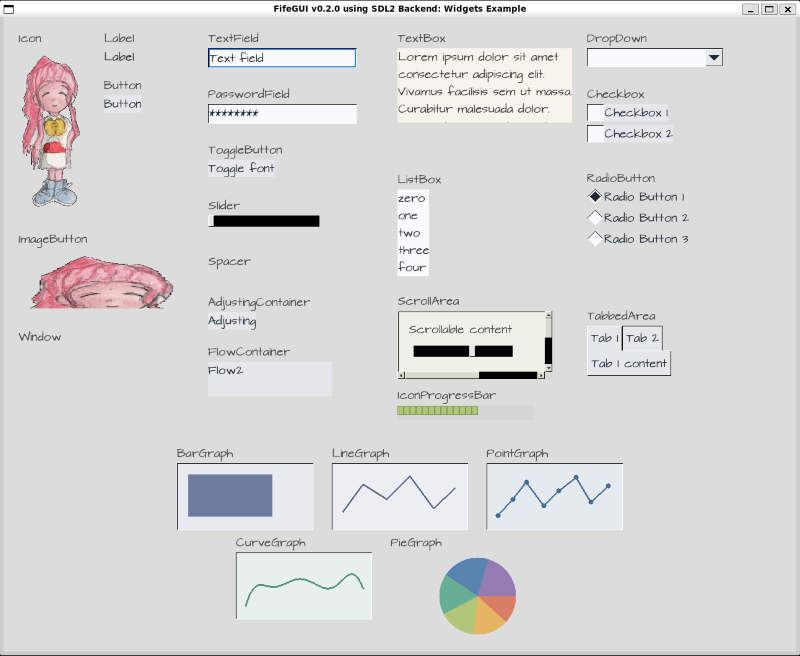
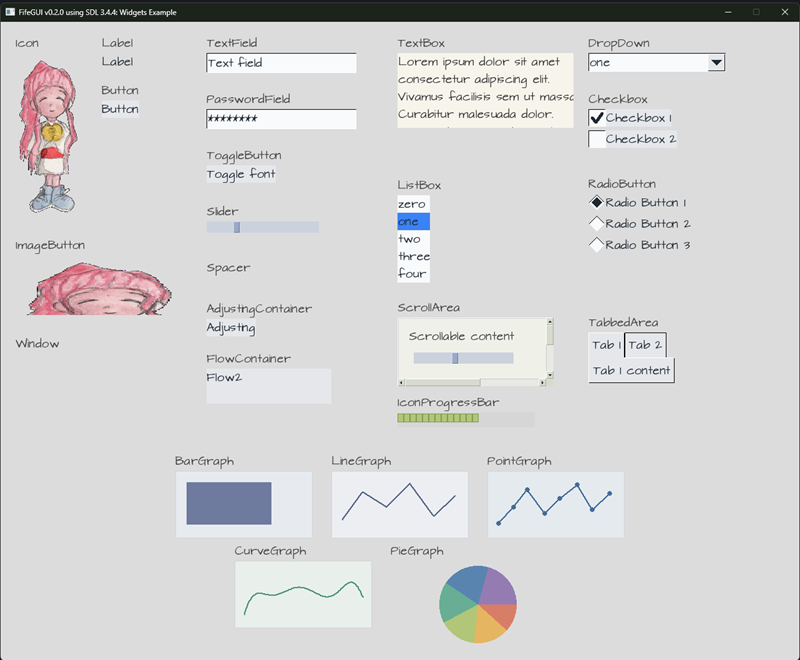
migrate to SDL3

diff --git a/tests/integration/sdl/sdlmdedit.cpp b/tests/integration/sdl/sdlmdedit.cpp
@@ -122,12 +122,12 @@ void Application::cleanup()
     graphics.reset();
     input.reset();
     renderer.reset();
-    window.reset();
     if (window) {
         SDL_StopTextInput(window.get());
     } else {
         SDL_StopTextInput(nullptr);
     }
+    window.reset();
     // Release any fonts held by the Application before shutting down SDL_ttf
     // to ensure TTF_CloseFont is called while the library is still initialized.
     activityFont.reset();

diff --git a/src/widgets/window.cpp b/src/widgets/window.cpp
@@ -159,8 +159,8 @@ namespace fcn
         }
         // text clip area
         Rectangle const rec(
-            getBorderSize() + getPaddingLeft(),
-            getBorderSize() + getPaddingTop(),
+            borderSize + paddingLeft,
+            borderSize + paddingTop,
             std::max(0, getWidth() - (2 * borderSize) - paddingLeft - paddingRight),
             std::max(0, static_cast<int>(getTitleBarHeight()) - 1));
 

diff --git a/README.md b/README.md
@@ -42,6 +42,28 @@ A menu in the style of the Final Fantasy series, demonstrating the flexibility o
 
 ![FF Demo](https://raw.githubusercontent.com/fifengine/fifechan/main/docs/images/examples-ff.png)
 
+### SDLDRAGDROP
+
+The SDLDRAGDROP demo demonstrates the drag and drop functionality of FifeGUI.
+It allows users to drag items from one panel to another, showcasing the library's support for interactive UI elements.
+
+On the left side is a user invenory panel with items that can be dragged, and on the right side is a character equipment panel where items can be dropped. Items can only be moved from the inventory to the equipment panel, and not the other way around. Blocked drops are indicated with a red highlight, while valid drops are highlighted in green.
+
+When user hovers over an item, a tooltip is displayed showing the name of the item and its stats.
+The tooltip information area is extended, when the user presses the ALT key, to show additional information about the item, such as additional stats, descriptions and or lore.
+
+![SDLDRAGDROP](https://raw.githubusercontent.com/fifengine/fifechan/main/docs/images/tests-sdldragdrop.png)
+
+### SDLMDEDIT
+
+The SDLMDEDIT application showcases key interface components, including a Menu, MenuItem, Menubar, and ActivityBar enhanced with OpenMoji glyph icons. It features a PrimaryPanel on the left and a SecondaryPanel on the right for structured layout organization.
+
+At the center is a textarea that serves as the main Markdown editing area. A Statusbar at the bottom of the window displays the current cursor position, including line and column information.
+
+This is not a fully working Markdown editor, but rather a demonstration of how FifeGUI can be used to create a complex user interface with various interactive components.
+
+![SDLMDEDIT](https://raw.githubusercontent.com/fifengine/fifechan/main/docs/images/tests-sdlmdedit.png)
+
 ## Downloads
 
 #### Latest Releases
